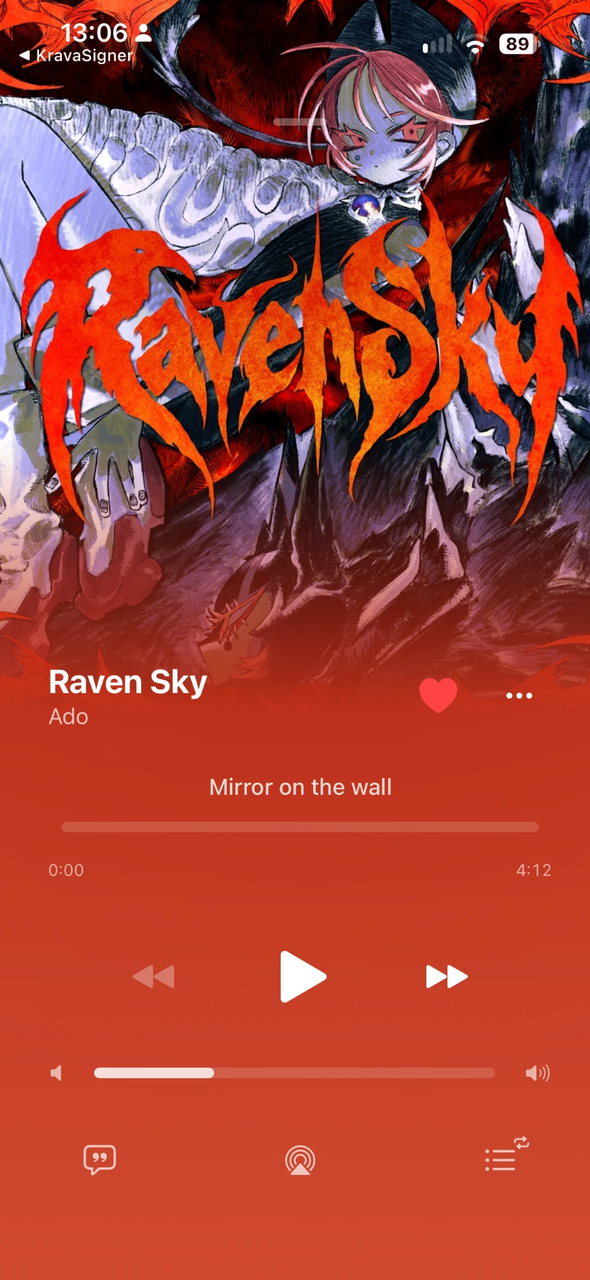
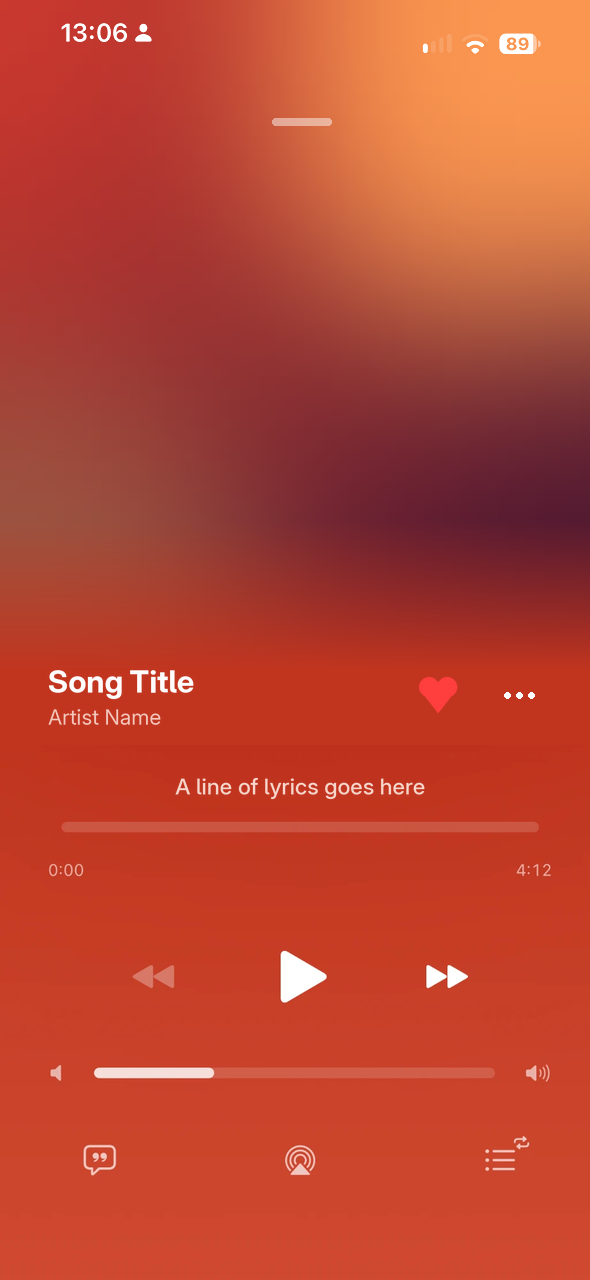
Replace README screenshots with versions without music content

diff --git a/README.md b/README.md
@@ -15,6 +15,8 @@ It plays without ads and mixes songs like a DJ.
 <img src=".github/assets/2.png" width="31%" alt="Player" />&nbsp;
 <img src=".github/assets/3.png" width="31%" alt="Queue" />
 
+<sub>The app's screens, with music content replaced by placeholders.</sub>
+
 </div>
 
 ## Highlights
